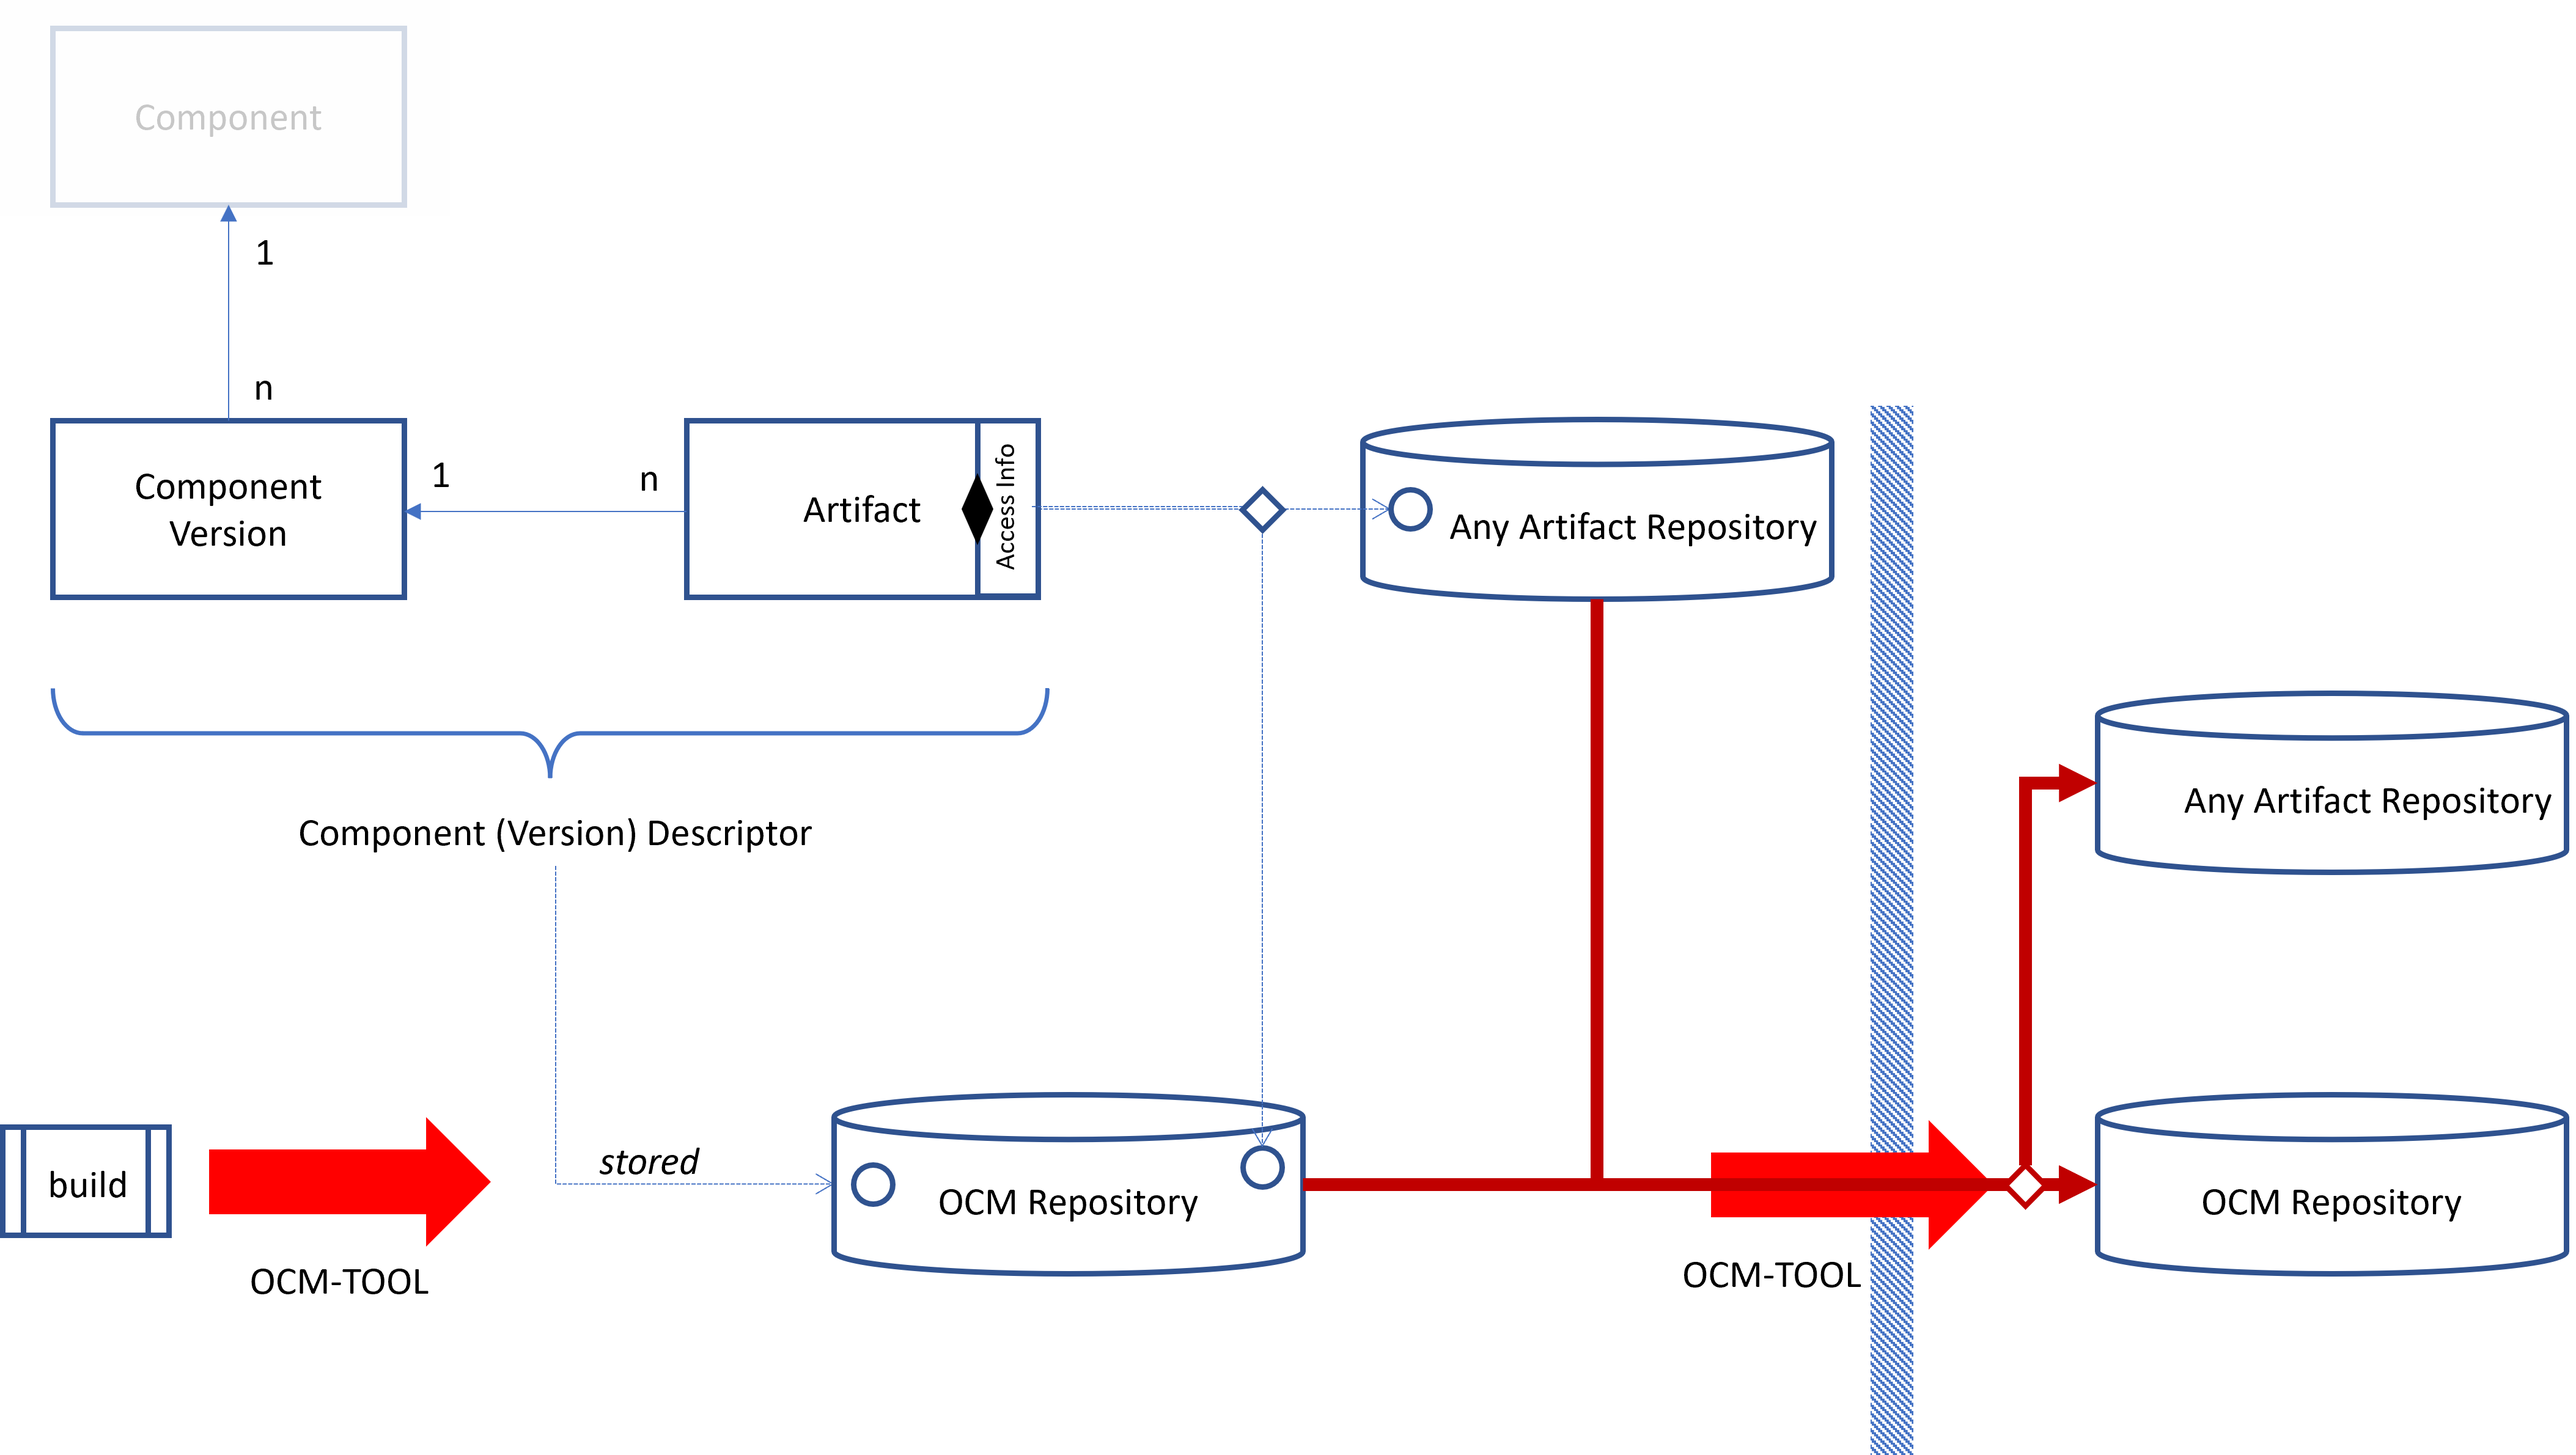
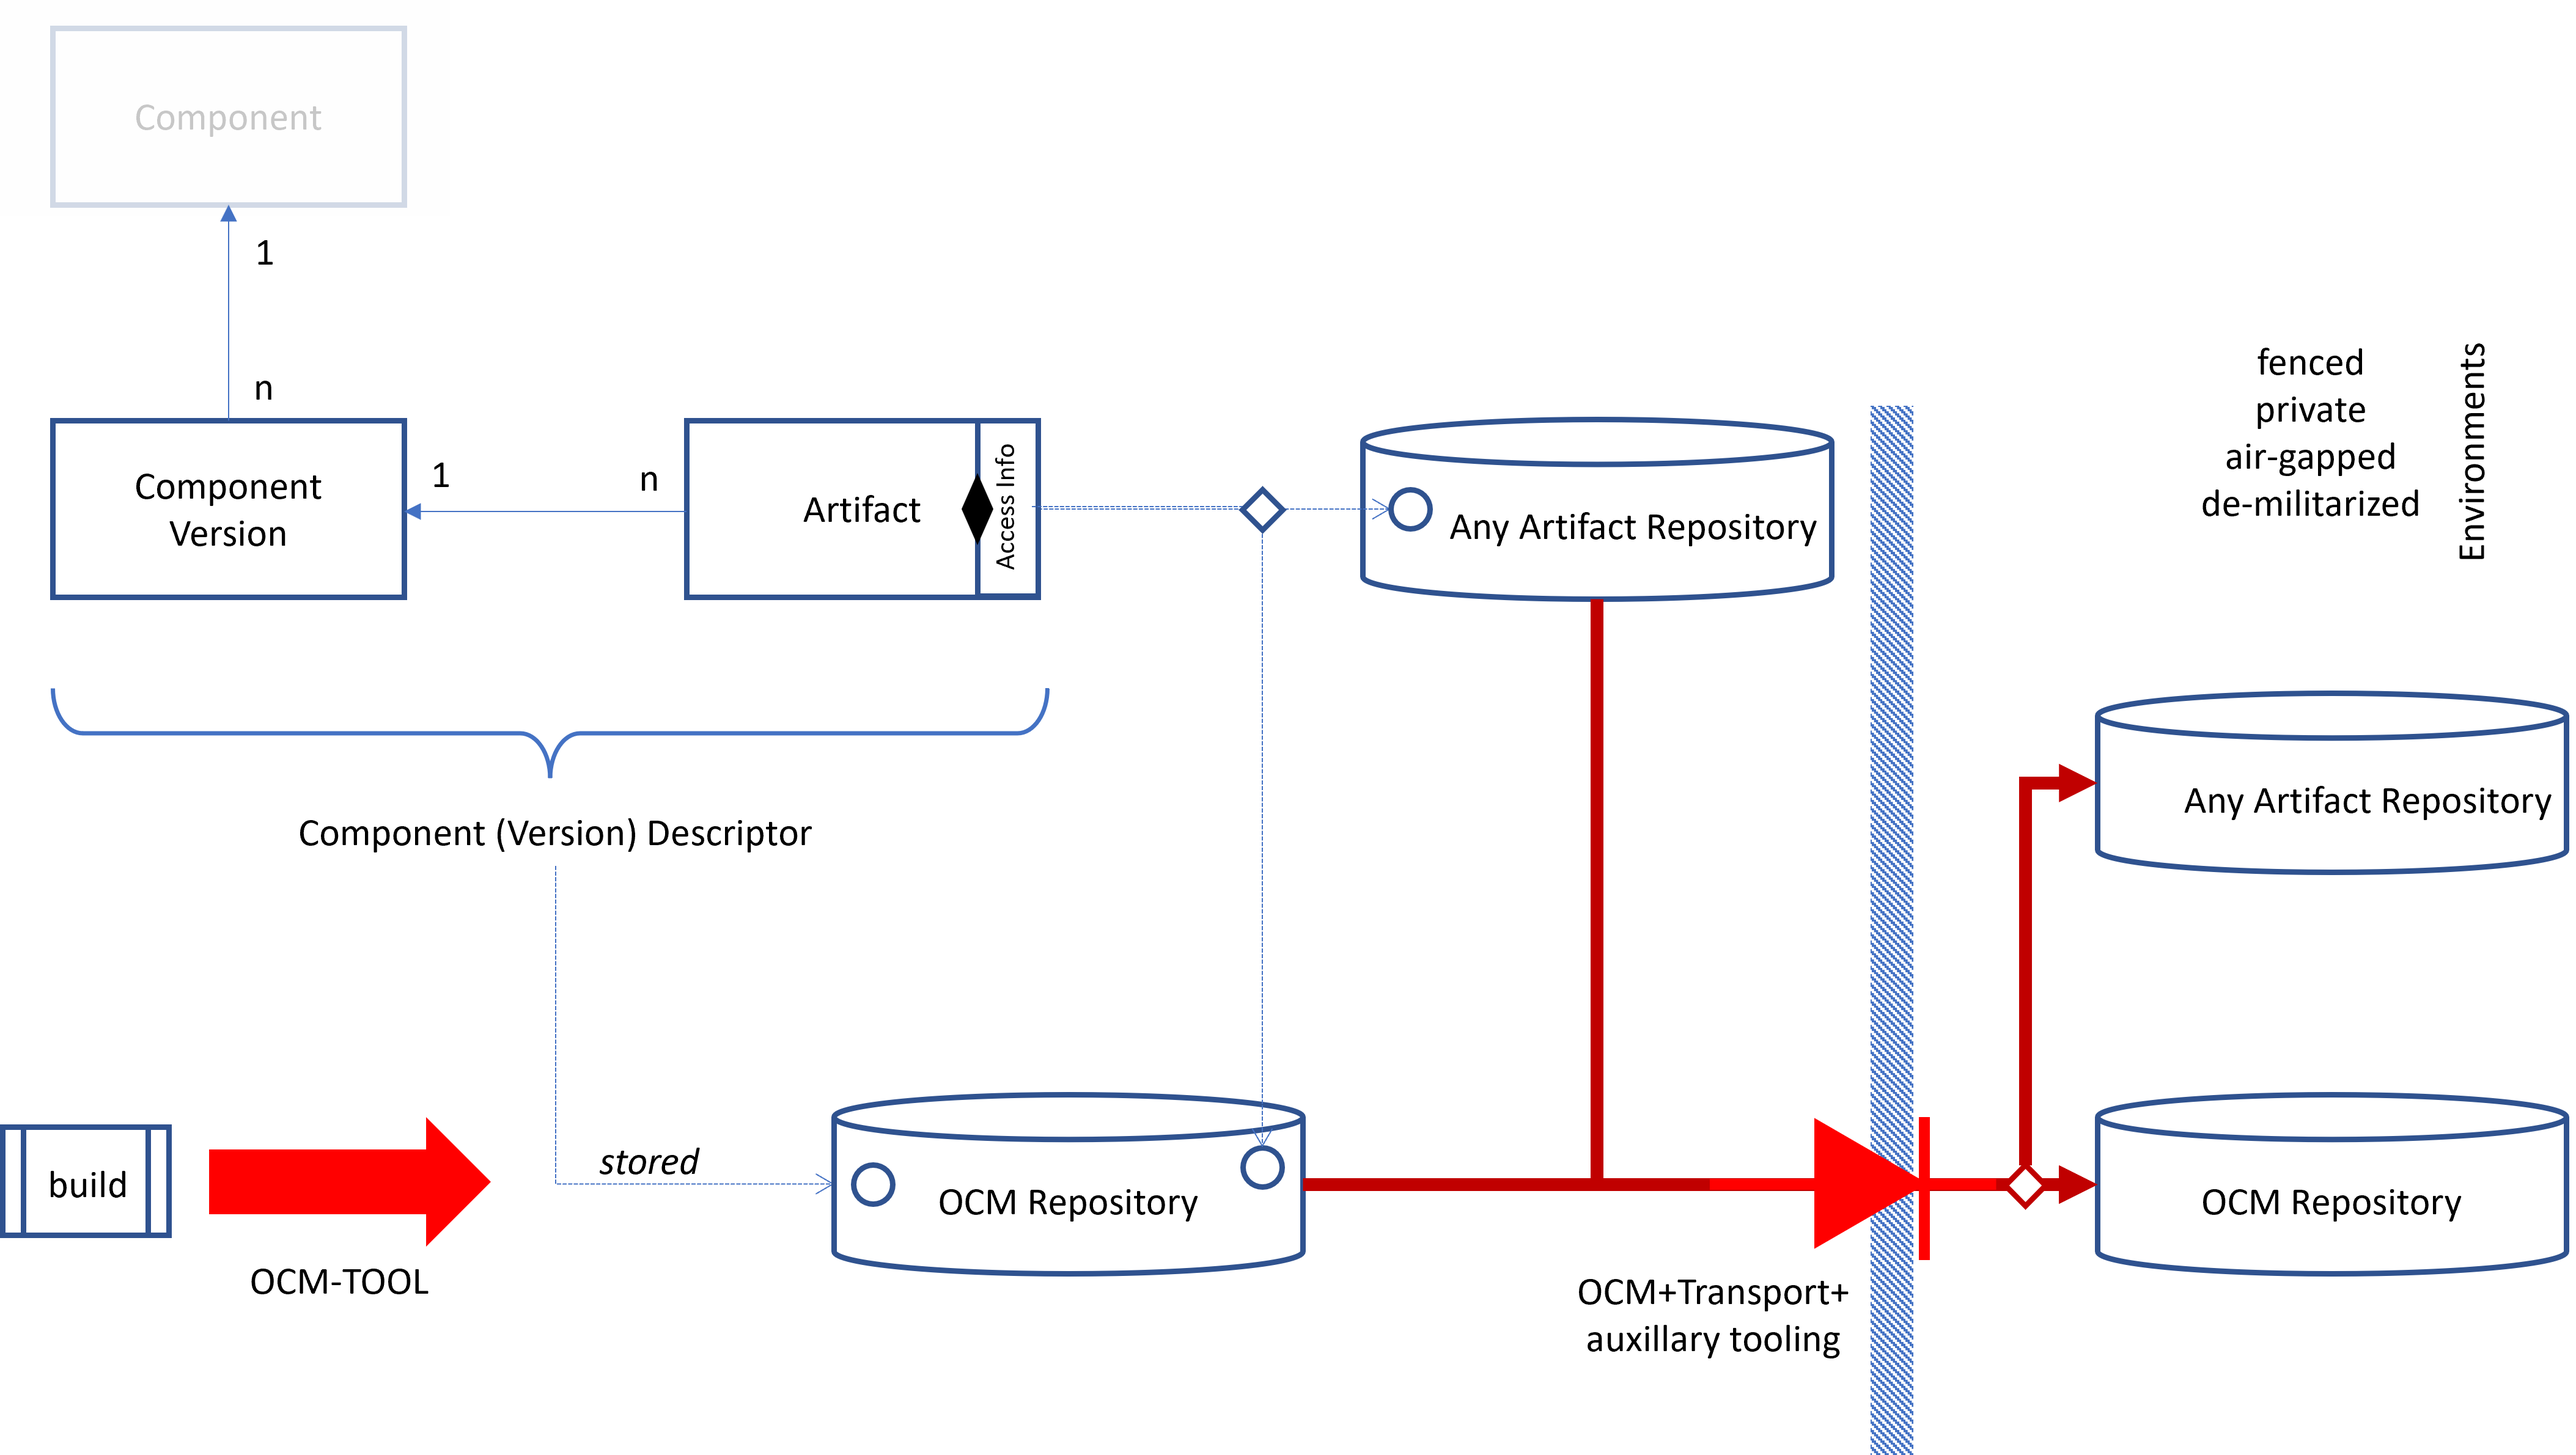
OCM repos

Changed region(s): [[0.6217, 0.777, 0.7772, 0.9324], [0.8704, 0.2486, 0.9637, 0.373], [0.9326, 0.2486, 0.9637, 0.2797]]

diff --git a/swmodels/swmodel.md b/swmodels/swmodel.md
@@ -95,7 +95,6 @@ Signing a component version must omit such environment-specific information but 
 <img src="./media/ocm-signing.png" style="width:70%" />
 </p>
 
-
 To support this, a normalization of a component version description is defined together with a formal API to gain access to the technical artifact blob according to the actual access specification.
 
 Using location agnostic descriptions accessing a component version content just by using a component version identity requires some kind of repository able to store
@@ -103,12 +102,15 @@ component version descriptions and to lookup those descriptions
 just be using their identity. This is then avting a basis to further look up and access artifacts in a repository landscape bound to the component repository.
 
 The model does not define an own technical repository specification for this, like OCI does for container images. Instead,
-this is covered by including specifications for a mapping of the OCM model to existing technical repository types. Like the access specification, this is typed and can be extended by new types.
+this is covered by including specifications for a mapping of the OCM model to existing technical repository types. Like the access specification, this is typed and can be extended by new types. The same is true for storing the artifacts. The component model
+comes with a specification how to embed the access to any kind of repository technology.
+For storing the model content a standard implementation is provided for OCI registries.
 
-To support the transport of software, it must be possible to store all content, the descriptions plus described artifacts in some
-archive, which may act as OCM repository. Because it must be possible to host the artifacts without referring to external repositories, the repository specification as well as
+Open Container Image (OCI) registries are today widely accepted standards, just like a few decade ago maven was the standard for java, and other programming languages came with their own repository implementation. OCI may be continuously developed towards a unified future, but we may as well find a disrupting innovation (maybe InterPlanetary File System) to take the lead. Therefore, OCM is repository technology independent and spans multiple thereof. It functions without special indexing APIs or referential links from the repository technology (which e.g. OCI currently does not support, but is in process of developing).
+
+Although content might be spread over multiple repositories, the transport of software sometimes requires storing all content, the descriptions plus described artifacts, in some archive format, which may act as OCM repository as well. Because it must be possible to host the artifacts without referring to external repositories, the repository specification as well as
 the access specification must include the possibility to store artifacts along with the component version description (called *local access*). Transporting software means 
-transporting artifacts described by a component version to another repository landscape. This might even be a completely fenced environment by using the transport archive feature. Besides the artifacts, the component version descriptions are also moved to a new local component repository by adapting the access information to reflect the new 
+transporting artifacts described by a component version to another repository landscape. This might even be a completely fenced environment by using the transport archive feature. Besides the artifacts, the component version descriptions are also copied to a new local component repository by adapting the access information to reflect the new 
 repository locations.
 
 All this requires some core tooling as described by the next section. But the model is basically an enabler for many more use cases and specialized tooling. Because it combines an environment and technology-independent description of software, the technical access to described content and a globally unique

diff --git a/swmodels/dtmodel.md b/swmodels/dtmodel.md
@@ -1,8 +1,8 @@
-### The Design Time Model
+## The Design Time Model
 
-In contrast to the service model, which deals with describing the features of service kinds, the design time model is intended to describe a concrete orchestrated service landscape (or service mesh). Therefore, it deals with service instances.
+In contrast to the [service model](svmodel.md), which deals with describing the features of service kinds, the design time model is intended to describe a concrete orchestrated service landscape (or service mesh). Therefore, it completely deals with service instances.
 
-#### The Model
+### The Model
 
 Similar to the service model, the central and basically sole element of the design time model is the service instance. It features several kinds of relations:
 - orchestration dependencies
@@ -42,7 +42,7 @@ by the landscape designer. According to the service model, this implies some req
 to be usable by further tooling.
 
 
-#### Relation to the Component and Service Model
+### Relation to the Component and Service Model
 
 And here, there is the direct link to the service model. The service instance is directly related to a service of the service model. The definition here determines
 which dependencies must be resolved to result in a valid design time model.
@@ -58,11 +58,11 @@ able to apply such settings in a concrete setting. This could, for example, be
 plugins for a landscape installation system (see below), which are again expressed as
 artifacts in the component model referenced by the service model elements.
 
-#### The Tooling
+### The Tooling
 
 The previous section just opens the door for some useful tool support.
 
-##### Landscape Modeller
+#### Landscape Modeller
 Besides the repository, a *landscape modeler* could be provided. It provides
 and API (or UI) for the landscape designer assisting in providing a complete, valid and consistent landscape setup.
 It uses the service model (available via the service model repository) to
@@ -85,7 +85,7 @@ by browsing a marketplace to look for and buy some other solution. This one the 
 After this it is available for landscape modeler, which now can
 offer multiple possibilities for resolving the contract dependency.
 
-##### The Landscape Installation System
+#### The Landscape Installation System
 
 For the design time model to technically relevant, it must somehow automatically
 be mapped to some operation environment. There might be several levels of support
@@ -105,14 +105,14 @@ identical to ordering an instance from a service provider (see Apeiro).
 So, required is the link from the service model referring to an appropriate
 artifact in the component model (which is already formalized), and the plugins for the installation system used to map configurations into declarative request resources.
 
-###### The Service Account Management
+##### The Service Account Management
 
 To be able to work, service providers must be able to interact with each other.
 This typically requires authentication and permissions. A landscape installation system
 must therefore fall back to another tool, a *service account management*. This must be standardized, to enable the installation system to request service accounts for service provides automatically passed to using services as part of the service provider orchestration.
 
 
-##### Maintenace Optimizer
+#### Maintenace Optimizer
 
 <p align="center">
 <img src="./media/landscape-installation-system.png" style="width:70%" />
